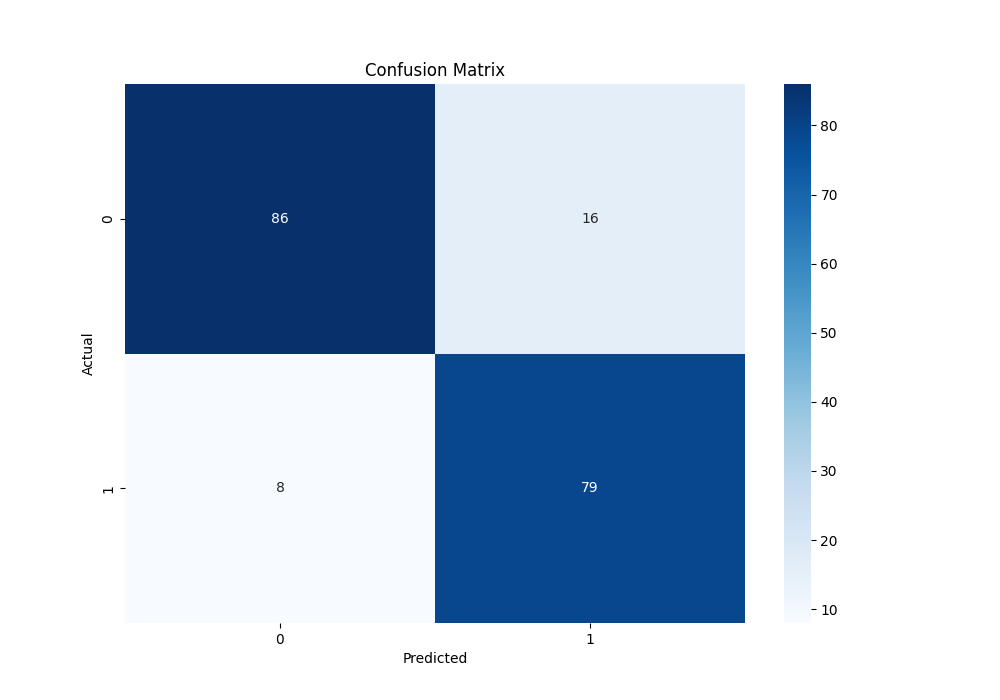
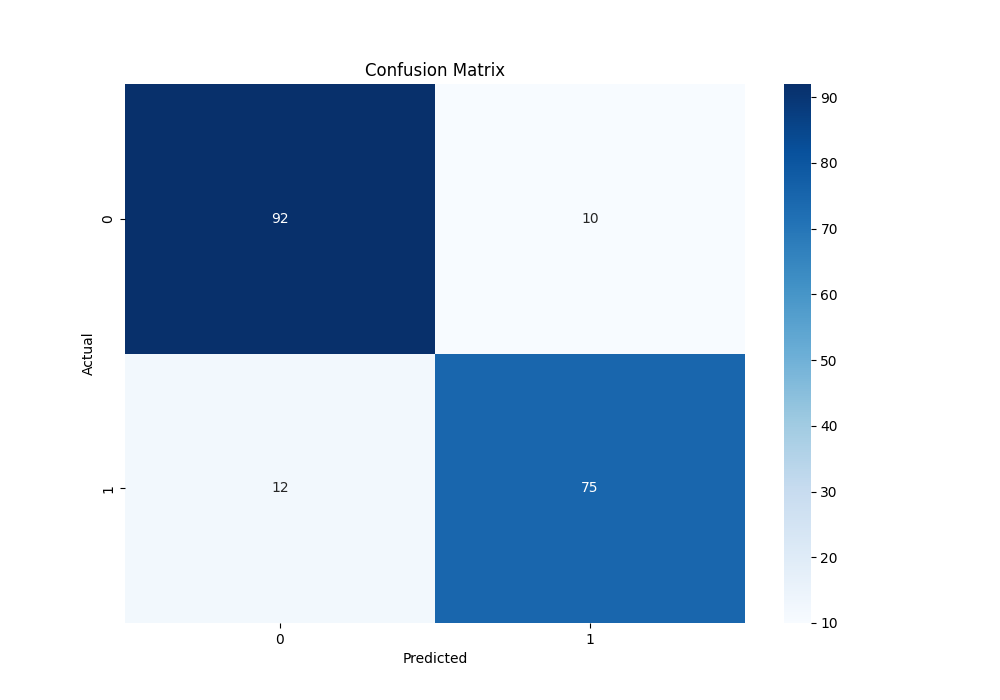
add dagshub experiment tracking with artificats for DT

diff --git a/machine_fault.py b/machine_fault.py
@@ -1,3 +1,5 @@
+import mlflow.data
+import mlflow.data
 import pandas as pd
 import numpy as np
 from sklearn.preprocessing import StandardScaler,MinMaxScaler
@@ -18,7 +20,7 @@ mlflow.set_tracking_uri('https://dagshub.com/pratik0502/machine_fault_hyperparam
 
 data = pd.read_csv(r"D:\ML_ops\archive\data.csv")
 
-x = data.iloc[:,:-1]
+x = data.iloc[:,0:-1]
 y = data.iloc[:,-1]
 
 sd = StandardScaler()
@@ -28,19 +30,20 @@ x_train,x_test,y_train,y_test = train_test_split(x,y,test_size=0.2,random_state=
  
 
 
-gm = 1
-c = 1
-kernel = 'linear'
+n_estimators = 40
+max_depth = 10
 
-mlflow.set_experiment('machine_fault_SVC')
+mlflow.autolog()
 
-with mlflow.start_run(run_name='SVC with artifcats'):
+mlflow.set_experiment('machine_fault_RD')
 
-    # rd = RandomForestClassifier(n_estimators=n_estimators,max_depth=max_depth)
+with mlflow.start_run(run_name='RD with artifcats'):
+
+    model = RandomForestClassifier(n_estimators=n_estimators,max_depth=max_depth)
 
 
 
-    model = SVC(gamma=gm,kernel=kernel,C=c)
+    # model = SVC(gamma=gm,kernel=kernel,C=c)
     model.fit(x_train,y_train)
 
     y_pred = model.predict(x_test)
@@ -67,14 +70,28 @@ with mlflow.start_run(run_name='SVC with artifcats'):
     # mlflow.log_metric('Confusion_metrics',CM)
     # mlflow.log_metric('Confusion_report',CR)
 
-    mlflow.log_param('gamma',gm)
-    mlflow.log_param('C',c)
-    mlflow.log_param('kernel',kernel)
+    mlflow.log_param('n_estimators',n_estimators)
+    mlflow.log_param('max_depth',max_depth)
 
     mlflow.log_artifact(image_path)
 
     mlflow.sklearn.log_model(model,'SVC')
     mlflow.log_artifact(__file__)
+
+    # train_data = x_train
+    # train_data['fault'] = y_train
+
+    # train_data = mlflow.data.from_padas(train_data)
+
+    # mlflow.log_input(train_data,'training data')
+
+    # test_data = x_test
+    # test_data['fault'] = y_test
+
+    # test_data = mlflow.data.from_pandas(test_data)
+
+    # mlflow.log_input(test_data,'test_data')
+    
 
 
     print('accuracy',acc)
